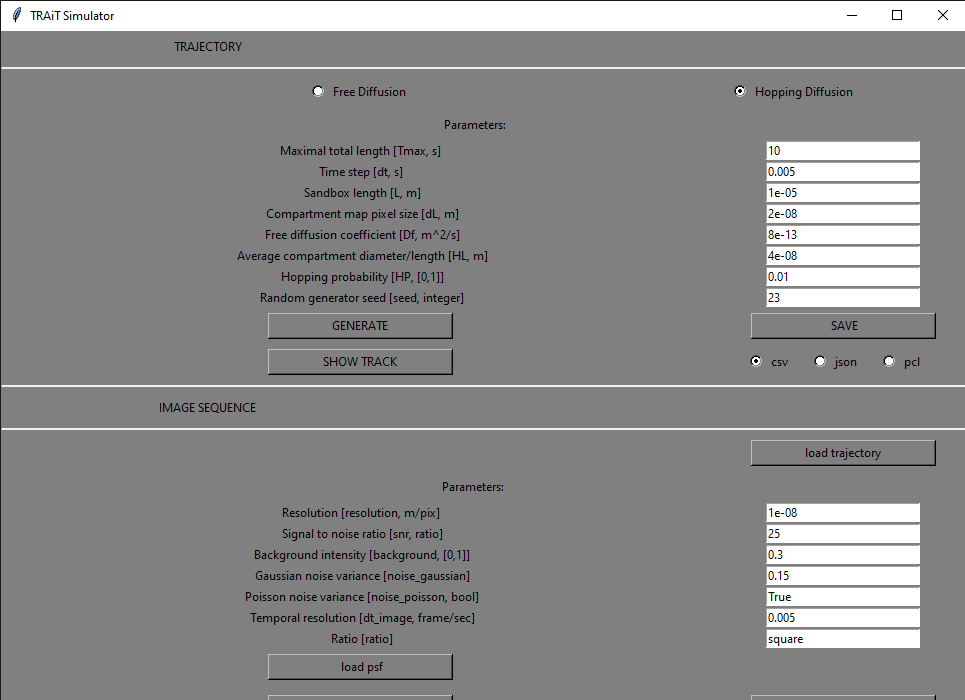
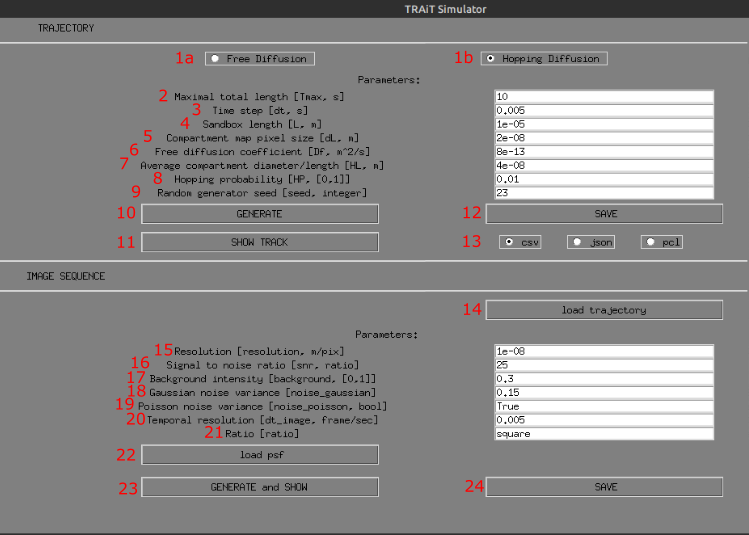
updated simulator GUI docs

diff --git a/sphinx/source/simulator_gui.rst b/sphinx/source/simulator_gui.rst
@@ -3,8 +3,6 @@
 Simulator GUI
 =============
 
-TODO
-
 Starting the GUI
 ----------------
 
@@ -15,4 +13,54 @@ Description of the GUI
 
 .. image:: images/simulator_gui.png
 
-TODO
+1.
+
+   a. **Select the free diffusion model**
+
+   b. **Select the hopping difffusion model**
+
+2. **Parameter: maximal total length (** ``Tmax`` **) in seconds**: This is the maximum simulation duration. The simulation might be short if the particle diffuses out of the simulation volume.
+
+3. **Parameter: time step (** ``dt`` **) in seconds**: This is the temporal discretization of the simulation domain.
+
+4. **Parameter: sandbox length (** ``L`` **) in m**: This is the physical size of the simulation domain.
+
+5. **Parameter: compartment map pixel size (** ``dL`` **) in m**: This is the physical discretization of the simulation domain.
+
+6. **Parameter: free diffusion coefficient (** ``Df`` **) in m²/s**
+
+7. **Parameter: average compartment diameter / length (** ``HP`` **) in m. This parameter is used by the hopping diffusion model.
+
+8. **Parameter: Hopping probability (** ``HL`` **), between 0 and 1**: Describes the probability of hopping diffusion, e.g. the probability of changing hopping diffusion cells.
+
+9. **Parameter: Random generator seeds (** ``seed`` **, integer)**: This ia an optional integer used to initialize the random number generator. This is mostly used for reproducibility (initializing a simulation with a given seed will give the same simulation results every time). Keep empty to use a random seed.
+
+10. **Run the diffusion simulation** using the diffusion model selected in 1a/1b, and the diffusion parameters described by 2-9. Generate must be used every time the diffusion parameters are changed.
+
+11. **Visualize the simulated diffusion track.** Must generate (10) beforehand.
+
+12. **Save the simulated track to a file.** Uses the selected file format (13).
+
+13. **Exported track file format.** Available formats are ``.csv``, ``.json``, and ``.pcl``.
+
+14. **Load a track file (simulated track, detected track, ...)**. If a track was simulated using a diffusion model, it can be used directly to generate the movie (if load trajectory is not used).
+
+15. **Parameter: resolution (** ``resolution`` **) in m/pix**: This is the movie physical resolution in m per pixel. If the track's particle positions are expressed at a finer resolution, they will be rounded to the closest pixel position given by this parameter.
+
+16. **Parameter: signal-to-noise-ration (SNR)**: Gives the ratio between the signal and the simulated noise. Higher SNR will result in  higher particle contrast compared to the background.
+
+17. **Parameter: background intensity**: Average background intensity of the simulated movie.
+
+18. **Parameter: Gaussian noise variance**: Represents the background noise.
+
+19. **Parameter: Poisson noise variance**: If ``True``, Poisson noise will be added to the simulated movie.
+
+20. **Temporal resolution (frame/sec)**: This is the temporal resolution of the simulated movie. The track positions for all time frames in between the discrete times of the simulated movie are integrated.
+
+21. **Ratio**: If set to square, the simulated movie will have the same height and width. Otherwise the movie dimension will be given by the particle's track positions.
+
+22. **Load PSF**: Optional. Used to load a point spread function stack. The Z-axis must be the first dimension of the stack. The middle frame along dimension 0 is used for the convolution.
+
+23. **Generate and show the simulated movie** given the loaded track and the simulation parameters.
+
+24. **Save the simulated movie as an image stack.**
